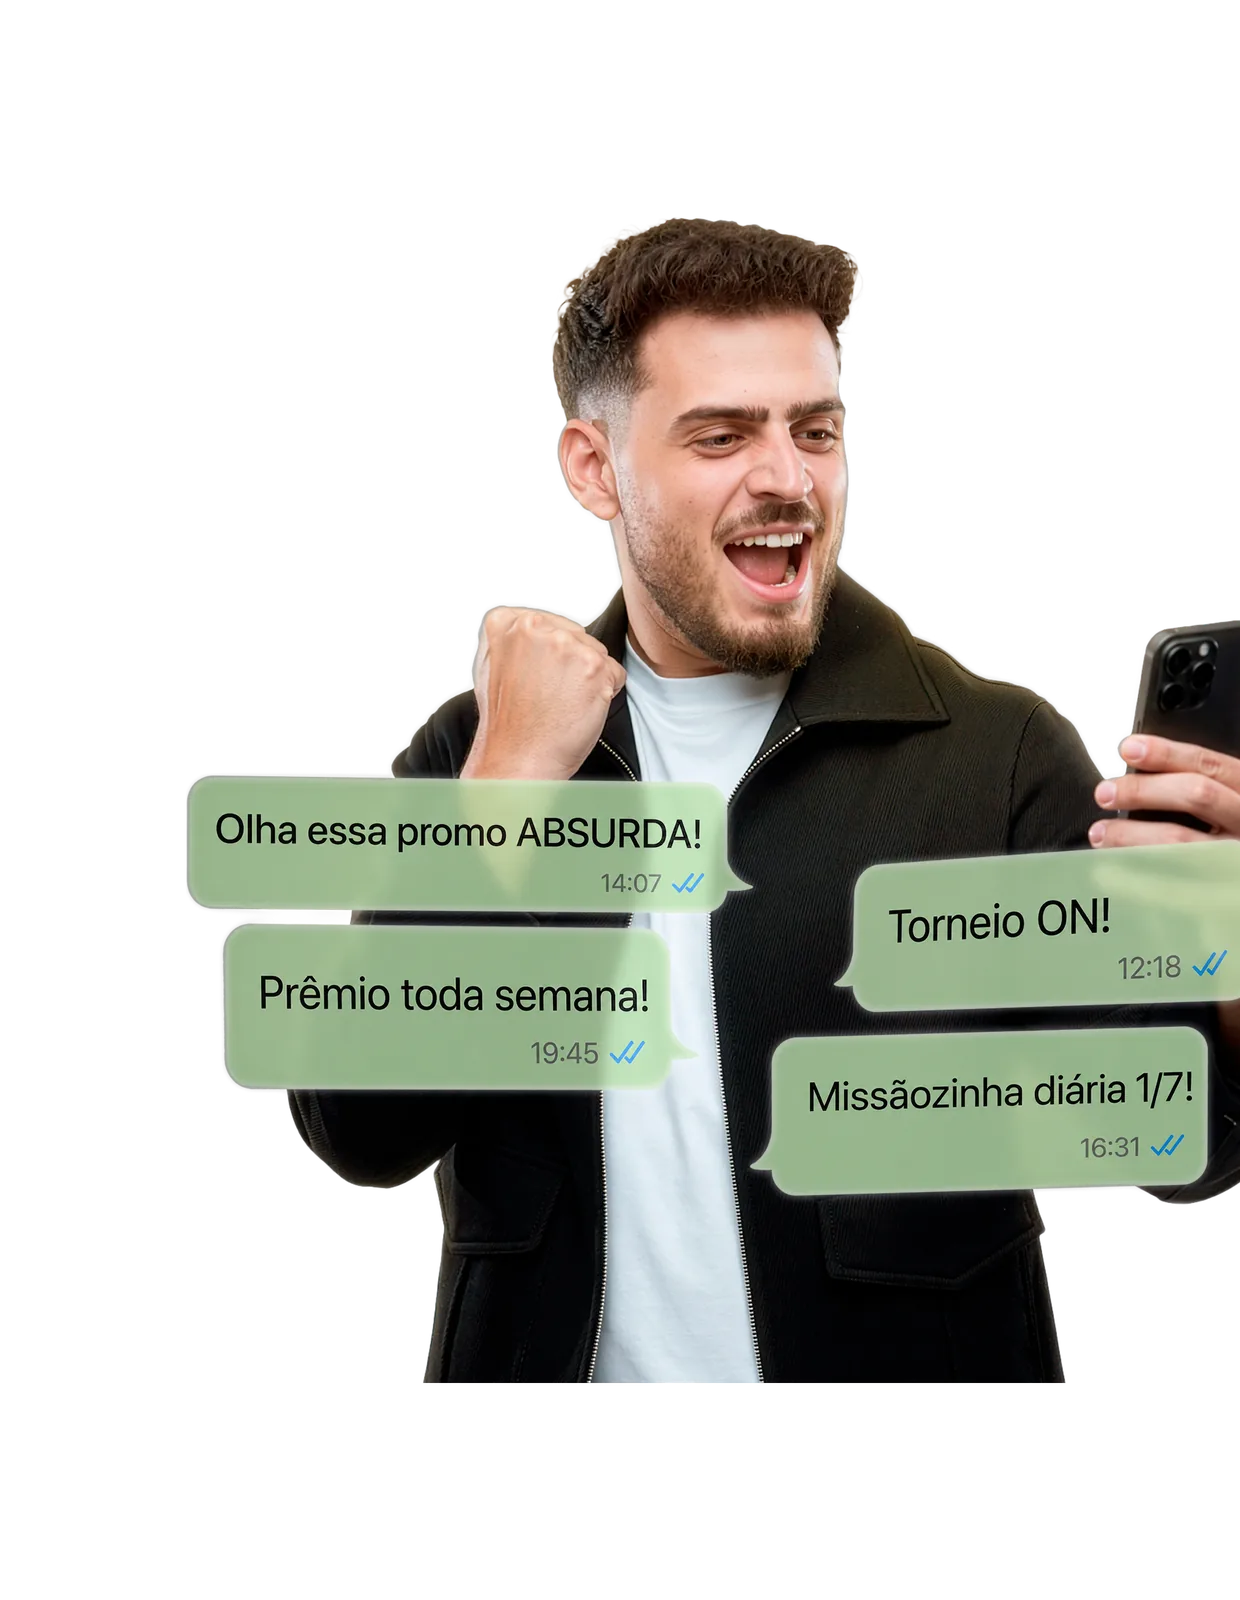
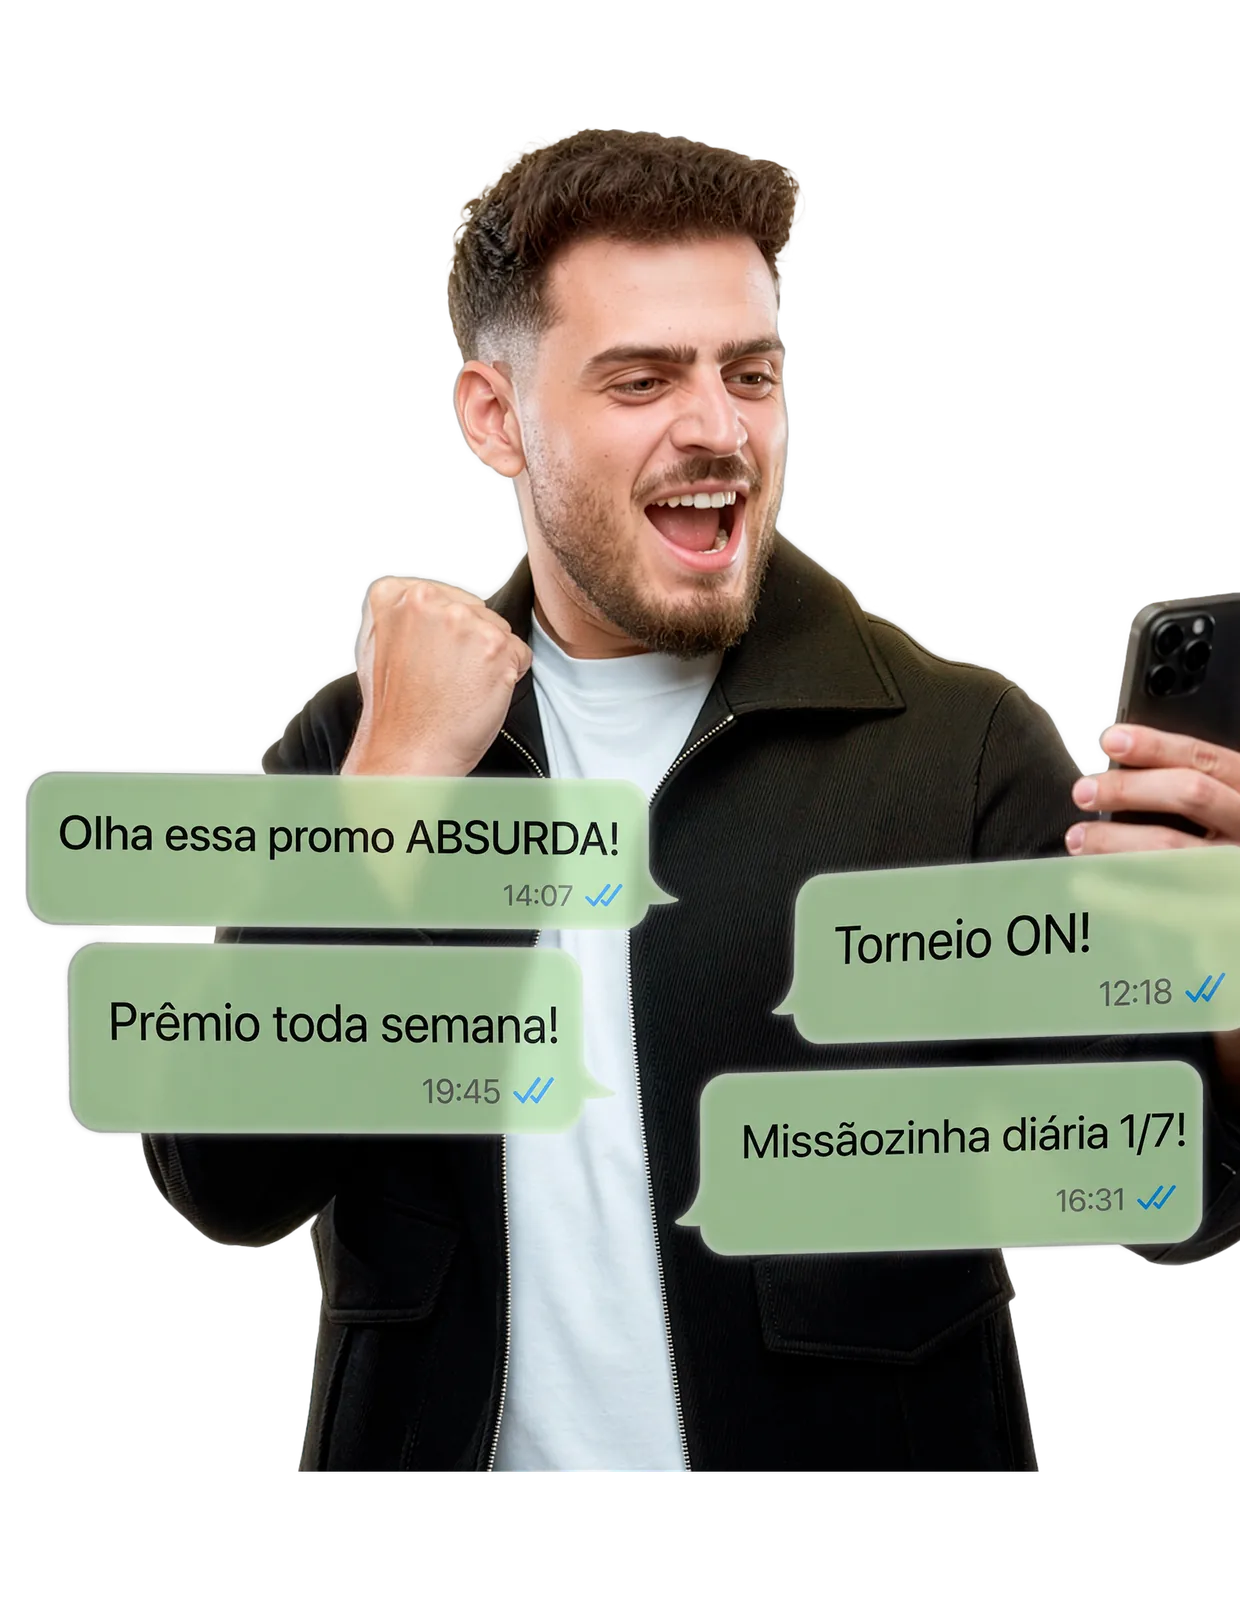
Jon desktop: equilibra paineis imagem|form + foto do Jon maior/preenchendo
- brands/jon/style.css: no desktop (>=880px, escopo SO Jon), centraliza o par
  imagem+form e limita a largura do painel do form -> remove o vao vazio que
  aparecia entre a imagem e o form em telas largas.
- jon-desktop.webp: Jon maior (~84% da altura) com folga minima na esquerda,
  tudo visivel (baloes + celular), fundo transparente.

Escopo: SO Jon desktop. Nobru, mobile, engine.js, tracking/CAPI e config
INTACTOS (verificado por diff + screenshot do Nobru).

diff --git a/brands/jon/style.css b/brands/jon/style.css
@@ -66,3 +66,12 @@ html, body { background: #0b0b0c; }
 .lp-logo-wrap { display: none; }
 .lp-jon-motion { height: 30px; }
 @media (min-width: 880px) { .lp-jon-motion { height: 38px; } }
+
+/* Desktop: equilibra os 2 painéis (imagem | form). Sem isso, o painel do form
+   pega toda a largura restante e centraliza o form, deixando um vão vazio entre
+   a imagem e o form em telas largas. Aqui limitamos a largura do form e
+   centralizamos o par imagem+form na tela. */
+@media (min-width: 880px) {
+  .lp { justify-content: center; }
+  .lp-body { flex: 0 1 auto; max-width: 716px; }
+}

diff --git a/preview-jon-direta.html b/preview-jon-direta.html
@@ -1328,6 +1328,15 @@ html, body { background: #0b0b0c; }
 .lp-jon-motion { height: 30px; }
 @media (min-width: 880px) { .lp-jon-motion { height: 38px; } }
 
+/* Desktop: equilibra os 2 painéis (imagem | form). Sem isso, o painel do form
+   pega toda a largura restante e centraliza o form, deixando um vão vazio entre
+   a imagem e o form em telas largas. Aqui limitamos a largura do form e
+   centralizamos o par imagem+form na tela. */
+@media (min-width: 880px) {
+  .lp { justify-content: center; }
+  .lp-body { flex: 0 1 auto; max-width: 716px; }
+}
+
 </style>
 </head>
 <body>

diff --git a/preview.html b/preview.html
@@ -1328,6 +1328,15 @@ html, body { background: #0b0b0c; }
 .lp-jon-motion { height: 30px; }
 @media (min-width: 880px) { .lp-jon-motion { height: 38px; } }
 
+/* Desktop: equilibra os 2 painéis (imagem | form). Sem isso, o painel do form
+   pega toda a largura restante e centraliza o form, deixando um vão vazio entre
+   a imagem e o form em telas largas. Aqui limitamos a largura do form e
+   centralizamos o par imagem+form na tela. */
+@media (min-width: 880px) {
+  .lp { justify-content: center; }
+  .lp-body { flex: 0 1 auto; max-width: 716px; }
+}
+
 </style>
 </head>
 <body>
